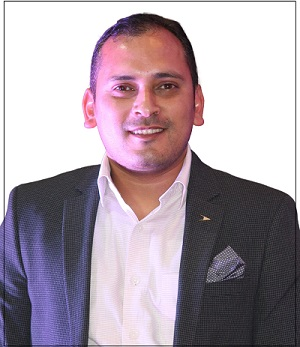
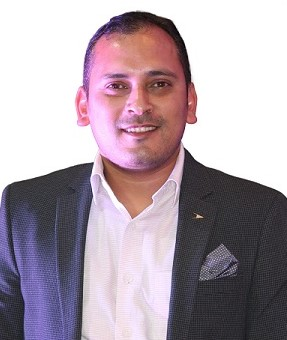
photo update

diff --git a/src/Components/Committee.jsx b/src/Components/Committee.jsx
@@ -21,12 +21,12 @@ import drarun from "/committee/drarun.jpeg";
 // cochair
 import ashwin from "/committee/cochair/ashwin.jpeg";
 import gaythri from "/committee/cochair/gaythri.jpeg";
-import snehasharma from "/committee/cochair/snehasharma.jpeg";
+import snehasharma from "/committee/cochair/snehasharma.jpg";
 
 // technical 
-import theodre from "/committee/technical/theodre.jpeg";
+import theodre from "/committee/technical/theodre.jpg";
 import gayathri from "/committee/technical/gayathri.jpeg";
-import shirshendu from "/committee/technical/shirshendu.jpeg";
+import shirshendu from "/committee/technical/shirshendu.jpg";
 import godfrey from "/committee/technical/godfrey.jpeg";
 import amarbajapai from "/committee/technical/amarbajapai.jpeg";
 import mahesh from "/committee/technical/mahesh.jpeg";
@@ -36,30 +36,30 @@ import anandi from "/committee/technical/anandi.jpeg";
 
 // publicity commitee
 import navya from "/committee/publicity/navya.jpeg";
-import mansa from "/committee/publicity/mansa.jpeg";
+import mansa from "/committee/publicity/mansa.jpg";
 import puneeth from "/committee/publicity/puneeth.jpeg";
 import nadeem from "/committee/publicity/nadeem.jpeg";
 import owais from "/committee/publicity/owais.jpeg";
 
 // organixing commitee
 
-import arungalai from "/committee/organizing/arungalai.jpeg";
+import arungalai from "/committee/organizing/arungalai.jpg";
 import vinu from "/committee/organizing/vinu.jpeg";
 import arunananth from "/committee/organizing/arunananth.jpeg";
 import mukti from "/committee/organizing/mukti.jpeg";
-import divya from "/committee/organizing/divya.jpeg";
-import rashmitha from "/committee/organizing/rashmitha.jpeg";
-import deepthi from "/committee/organizing/deepthi.jpeg";
+import divya from "/committee/organizing/divya.png";
+import rashmitha from "/committee/organizing/rashmitha.jpg";
+import deepthi from "/committee/organizing/deepthi.png";
 import santhosh from "/committee/organizing/santhosh.jpeg";
-import kanmani from "/committee/organizing/kanmani.jpeg";
+import kanmani from "/committee/organizing/kanmani.jpg";
 import boss from "/committee/organizing/boss.jpeg";
 import kokila from "/committee/organizing/kokila.jpeg";
-import sharan from "/committee/organizing/sharan.jpeg";
+import sharan from "/committee/organizing/sharan.png";
 import shwetha from "/committee/organizing/shwetha.jpeg";
 import jaishree from "/committee/organizing/jaishree.jpeg";
 import jisy from "/committee/organizing/jisy.jpeg";
 import sudharshan from "/committee/organizing/sudharshan.jpeg";
-import supraja from "/committee/organizing/supraja.jpeg";
+import supraja from "/committee/organizing/supraja2.jpeg";
 import pushpa from "/committee/organizing/pushpa.jpeg";
 
 
@@ -97,11 +97,7 @@ const committeeSections = [
   {
     title: "Advisory Committee ",
     members: [
-      {
-        name: "Dr. Prasant Misra",
-        role: "Chair-Elect 2025",
-        image:prasantmisra,
-      },
+    
       {
         name: "Dr. Aloknath De",
         role: "IEEE Bangalore Section Chair 2023",

diff --git a/src/Components/AuthorGuidelines.jsx b/src/Components/AuthorGuidelines.jsx
@@ -11,14 +11,14 @@ export default function AuthorGuidelines() {
           </p>
           
           <h3 className="text-2xl font-bold text-blue-900 mt-4">ORIGINALITY OF SUBMITTED PAPERS</h3>
-          <p className="text-lg">
+          <p className="text-lg text-justify">
             Papers submitted to CENTCON 2025 shall contain original work by the author(s) that have not been published
             or submitted for publication elsewhere. The IEEE anti-plagiarism policy is applicable to all submissions.
             The author(s) are solely responsible for any plagiarized submission.
           </p>
           
           <h3 className="text-2xl font-bold text-blue-900 mt-4">PAPER SUBMISSION</h3>
-          <p className="text-lg">
+          <p className="text-lg text-justify">
             All papers are required to be prepared and submitted in the IEEE Standard two-column conference format
             of A4 size in English. Papers must be three to six pages in length, including texts, figures, photographs,
             and references. Any submitted paper that exceeds six pages will be rejected. The first page must include
@@ -26,20 +26,20 @@ export default function AuthorGuidelines() {
             documents. Failing to conform to the standard format will result in rejection. Detailed format information
             is available on the IEEE Website.
           </p>
-          <p className="text-lg">
+          <p className="text-lg text-justify">
             The authors are required to use the standard IEEE manuscript template for conferences. The Microsoft Word
             template can be downloaded from the IEEE conference template page:
             <a href="https://www.ieee.org/conferences/publishing/templates.html" className="text-blue-500 hover:underline"> Click here</a>
           </p>
           
           <h3 className="text-2xl font-bold text-blue-900 mt-4">PAPER UPLOAD</h3>
-          <p className="text-lg">
+          <p className="text-lg text-justify">
             The submitting authors may be required to create an EDAS account before uploading the paper (if the submitting
             author does not have a Microsoft Conference Management Toolkit account). While uploading the paper, the authors
             should provide the title of the paper, an abstract of no more than 100 words, and keywords in the respective text
             boxes in the paper submission page.
           </p>
-          <p className="text-lg">
+          <p className="text-lg text-justify">
             Please note that all accepted papers that are registered and presented in the conference will be sent for possible
             inclusion in IEEE Xplore. The authors must agree to the IEEE copyright conditions and sign the IEEE copyright form
             as part of the online submission process. All submitted papers will be peer-reviewed by the Technical Program

diff --git a/src/Components/Paper.jsx b/src/Components/Paper.jsx
@@ -8,7 +8,7 @@ const Paper = () => {
       <h1 className='font-bold text-3xl text-center text-orange-600'>CALL FOR PAPERS</h1>
       
       <h1 className='ml-10 mt-3 font-bold text-3xl text-blue-900'>Dear Researcher,</h1>
-      <p className='text-lg ml-10 pr-10 mt-2'>
+      <p className='text-lg ml-10 pr-10 mt-2 text-justify'>
       You are invited to submit your original research work to CENTCON 2025 –  Bridging AI, Sensing, and Embedded Intelligence for a Smarter, Safer, and Sustainable World, to be held on December 4-5, 2025, at Dayananda Sagar University (DSU), Bengaluru, India. The conference provides a platform for academicians, researchers, industry professionals, and students to present their novel contributions in Artificial Intelligence (AI), Sensing Technologies, Embedded Systems, and Automation. Submissions are encouraged in the key focus areas, including but not limited to AI-driven signal/Image processing, intelligent sensing, nanoelectronics, RF technologies, secure computing, cyber-physical systems, embedded intelligence, and autonomous systems. Accepted papers will undergo rigorous peer review, and selected works will be considered for publication in IEEE Xplore. We look forward to your contributions to drive innovation and shape the future of intelligent sensing, computing and automation.
 
       </p>
@@ -23,7 +23,7 @@ const Paper = () => {
   <ul className='text-lg ml-14 mt-2 '>
     <li>
       <span className='font-bold'>IEEE SPS [AI-Driven Sensing, Signal Processing, and Edge Intelligence for Smart Systems] </span>
-      <ul className='list-disc ml-6'>
+      <ul className='list-disc ml-6 text-justify'>
         <li>AI and ML in Signal Processing: Deep learning for signal enhancement, AI-driven denoising, speech and audio processing, biomedical signal interpretation.</li>
         <li>Edge AI and Distributed Computing: Low-power AI for edge devices, federated learning, real-time inference, neuromorphic computing.</li>
         <li>Multimodal Sensing and Fusion: Sensor fusion for autonomous systems, multimodal signal integration, heterogeneous data processing.</li>

diff --git a/src/Components/HomeSection.jsx b/src/Components/HomeSection.jsx
@@ -64,7 +64,7 @@ const HomeSection = () => {
         <div className="grid grid-cols-1 md:grid-cols-3 gap-6 mb-7 px-4 md:px-0">
           <div className="md:col-span-2 p-4 md:p-6 bg-white rounded-lg shadow-lg">
             <h2 className="text-2xl md:text-4xl font-bold text-gray-800 mb-4">About Us</h2>
-            <p className="text-gray-700 text-sm md:text-lg">
+            <p className="text-gray-700 text-sm md:text-lg text-justify">
               Dayananda Sagar University (DSU), established in 2014, is a premier private university located in Bengaluru, Karnataka, India. As a proud member of the Dayananda Sagar Institutions (DSI) family, which was founded in the early 1960s by Late Sri Dayananda Sagar, DSU has rapidly evolved into a global educational powerhouse. The university offers a diverse range of undergraduate, postgraduate, and doctoral programs across various disciplines, including engineering, management, health sciences, and arts. With state-of-the-art campuses and a strong emphasis on research and innovation, DSU fosters an environment that encourages creativity, critical thinking, and entrepreneurial spirit.
               <br />
               <div className='m-2'></div>

diff --git a/src/Components/AbtVerbose.jsx b/src/Components/AbtVerbose.jsx
@@ -3,7 +3,7 @@ import React from 'react'
 const AbtVerbose = () => {
   return (
     <div>
-         <p className="text-xl text-black mb-4">
+         <p className="text-xl text-black mb-4 text-justify">
          CENTCON 2025 – International Conference on Bridging AI, Sensing, and Embedded Intelligence for a Smarter, Safer, and Sustainable World will be held on December 4-5, 2025 in physical mode/In-person, at Dayananda Sagar University (DSU), Bengaluru, India. This conference aims to provide a global platform for researchers, industry professionals, and academicians to exchange ideas and showcase cutting-edge advancements in AI-driven sensing, intelligent automation, nanoelectronics, cyber-physical security, and embedded intelligence. By bringing together experts from academia, industry, and research organizations, CENTCON 2025 will facilitate discussions on breakthrough technologies shaping the future of smart systems, healthcare, security, and next-generation computing.<br />
          <br />
          

diff --git a/src/Components/Speakers.jsx b/src/Components/Speakers.jsx
@@ -1,5 +1,5 @@
 import React from "react";
-
+import ComingSoon from "./ComingSoon";
 const speakers = [
   {
     id: 1,
@@ -36,7 +36,7 @@ const speakers = [
 const SpeakersGrid = () => {
   return (
     <div className=" mx-auto px-4 py-10">
-      <h2 className="text-4xl font-bold text-center mb-8 text-orange-600">Meet Our Speakers</h2>
+      {/* <h2 className="text-4xl font-bold text-center mb-8 text-orange-600">Meet Our Speakers</h2>
       <div className="grid grid-cols-1 sm:grid-cols-2 md:grid-cols-3 lg:grid-cols-3 gap-6">
         {speakers.map((speaker) => (
           <div key={speaker.id} className="bg-white p-4 shadow-md rounded-lg text-center">
@@ -49,7 +49,8 @@ const SpeakersGrid = () => {
             <p className="text-gray-600">{speaker.position}</p>
           </div>
         ))}
-      </div>
+      </div> */}
+      <ComingSoon/>
     </div>
   );
 };

diff --git a/src/Components/Tracks.jsx b/src/Components/Tracks.jsx
@@ -4,8 +4,8 @@ const Tracks = () => {
   return (
        
     <div className='tracks mb-4'>
-    <p className='text-3xl ml-10 mt-2 font-bold text-blue-900'>Track Details</p>
-    <ul className='text-lg ml-14 mt-2 font-bold list-disc'>
+    <p className='text-3xl ml- mt-2 font-bold text-blue-900'>Track Details</p>
+    <ul className='text-lg ml-6 mt-2 font-bold list-disc'>
       <li>IEEE SPS   [AI-Driven Sensing, Signal Processing, and Edge Intelligence for Smart Systems
       ]</li>
       <li>IEEE MTTS  [Emerging Nanoelectronics, RF, and Photonics Technologies for Future Systems

diff --git a/src/Components/ComingSoon.jsx b/src/Components/ComingSoon.jsx
@@ -1,0 +1,14 @@
+import React from 'react'
+
+const ComingSoon = () => {
+  return (
+    <div className="com">
+    
+        <p className="text-3xl text-center font-bold mt-50">Coming 
+            Soon!
+        </p>
+    </div>
+  )
+}
+
+export default ComingSoon
